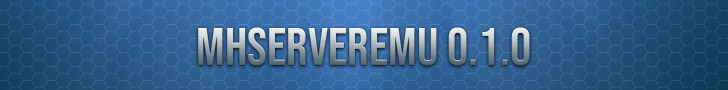
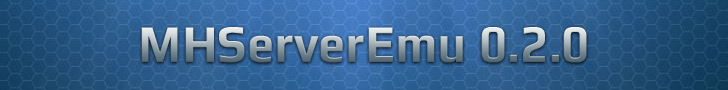
Update web assets for version 0.2.0

Changed region(s): [[0.1813, 0.2889, 0.8159, 0.7556]]

diff --git a/news/_posts/1002-01-01-new-in-this-version.md b/news/_posts/1002-01-01-new-in-this-version.md
@@ -1,0 +1,17 @@
+---
+layout: post
+---
+
+## New In Version 0.2.0
+
+* Implemented multiplayer: you can now see other players logged into the same server in-game and interact with them.
+
+* Hero swapping now happens in-game with no loading screens.
+
+* Implemented the inventory system: you can pick up and drop items to the ground, stack them, equip and unequip them, see items equipped on nearby heroes.
+
+* Enemies now drop loot. Currently the loot system uses a placeholder loot table for all enemies, and there is no affix generation.
+
+* Implemented the navi system: the server now has a representation of the world geometry used for collision detection.
+
+* Implemented physics and locomotion systems, which makes it possible to synchronize world entity movement between clients.

diff --git a/news/_posts/1001-01-01-features.md b/news/_posts/1001-01-01-features.md
@@ -12,6 +12,6 @@ layout: post
 
 * You can explore the entire game, and all regions are randomly generated. Regions refresh periodically as long as there are no players in them.
 
-* You can encounter enemies and deal damage to them, but most combat mechanics are not yet implemented.
+* You can encounter enemies and deal damage to them, but most combat mechanics are not yet implemented. Enemies drop loot.
 
-* You cannot see other players in-game. However, you can chat with them as long as all of you are connected to the same server.
+* You can see and interact with other players, as long as all of you are connected to the same server.

diff --git a/news/_posts/1000-01-01-intro.md b/news/_posts/1000-01-01-intro.md
@@ -2,9 +2,9 @@
 layout: post
 ---
 
-## Welcome to MHServerEmu 0.1.0!
+## Welcome to MHServerEmu 0.2.0!
 
-We are very excited to share with you the first official release of this project. There is still a mountain of work to do, but even what has been achieved so far was believed by many players to be impossible.
+Welcome to the second official release of MHServerEmu! Over the past few months we have been working hard on various core features of the game, including server-side game simulation, multiplayer, and loot.
 
 In this panel you will find an overview of what you can check out in this version of MHServerEmu.
 

diff --git a/news/_posts/1003-01-01-server-commands.md b/news/_posts/1003-01-01-server-commands.md
@@ -8,9 +8,9 @@ You can type **!commands** in the chat window to see a list of available server 
 
 **!tower** - Teleports you to Avengers Towers.
 
-**!doop** - Teleports you to DOOP SPACE NINE.
+**!region warp [pattern]** - Teleports you to the region matching the provided search pattern.
 
-**!cow** / **!bovineheim** - There is no cow level.
+**!item drop [pattern]** / **!item give [pattern]** - Drops or adds to your inventory the item that matches the provided search pattern.
 
 **!tp x100 y100 z100** - Teleports you within your current region. Replace numbers with coordinates you want to go to.
 
